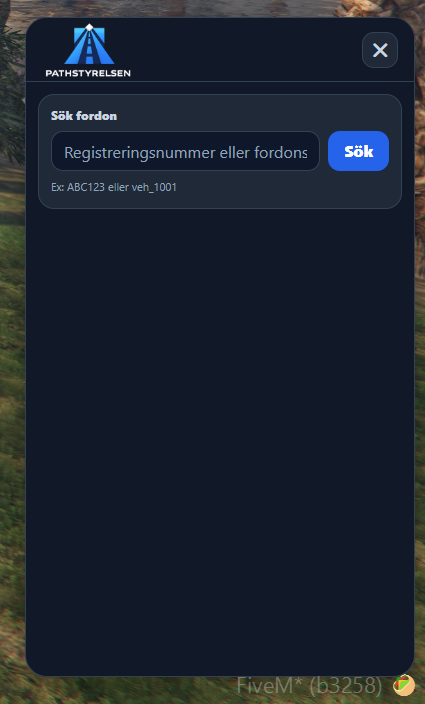
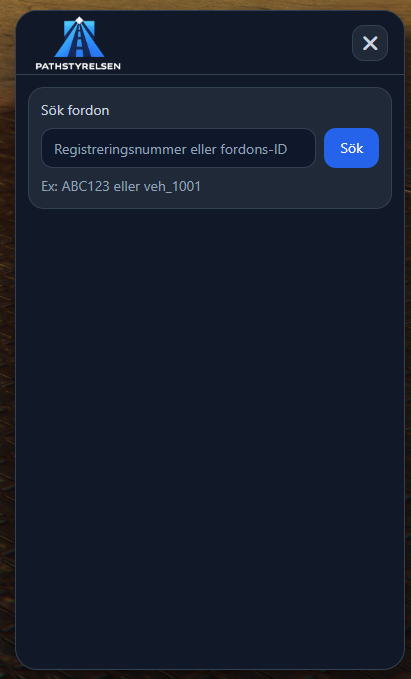
update README with new screenshots

Changed region(s): [[0.0, 0.0, 1.0, 1.0]]

diff --git a/README.md b/README.md
@@ -40,16 +40,21 @@ Questions? Send a PM or create an issue on GitHub.
 
 ### Vehicle Search
 
-![Vehicle Search](./screenshots/search.png)
+![Vehicle Search](./screenshots/filter1.png)
+
+### Search Filter
+
+![Search Filter](./screenshots/filter2.png)
 
 ### Vehicle Information
 
-![Vehicle Information](./screenshots/result1.png)
+![Vehicle Information](./screenshots/backButton.png)
 
-### Mileage
+### Mileage & Ownership History
 
-![Mileage](./screenshots/result2.png)
+![Mileage & Ownership History](./screenshots/ownerHistory.png)
 
 ### Transfer Owner Modal
 
-![Transfer Owner Modal](./screenshots/result3.png)
+![Transfer Owner Modal](./screenshots/transferOwner1.png)
+![Transfer Owner Modal](./screenshots/transferOwner2.png)
